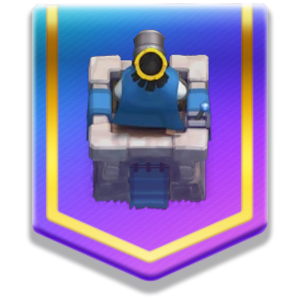
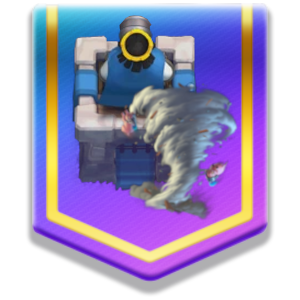
Clash Bingo

Changed region(s): [[0.24, 0.03, 0.81, 0.75]]

diff --git a/data.py b/data.py
@@ -35,6 +35,7 @@ MISC_DESCRIPTION = {
     'Perfection.png': "Win without troops reaching your towers.",
     'Prince_Special.png': "Have one Prince do 3 sprints.",
     'Princess_Special.png': "Have one Princess shoot 10 times.",
+    'Tornado_Special.png': "Have Tornado and activate your King Tower.",
     'Random.png': "Use your last oppenent's deck.",
     'Rocket_King_Tower.png': "Rocket the enemy King Tower within 20 seconds.",
     'Skeletons.png': "Use a deck with only skeleton cards.",
@@ -60,7 +61,7 @@ MODIFIERS_DESCRIPTION = {
     'elixir_5.png': "Use a deck of 5 or more elixir.",
     'Time.png': "Destroy a tower before x2 elixir.",
     'TowerActivation.png': "Activate enemy King Tower within 20 seconds.",
-    'TowerActivationSelf.png': "Activate your King Tower before losing towers.",
+    'TowerActivationSelf.png': "Have Tornado and activate your King Tower.",
     'FullTower.png': "Have one side-tower full HP.",
     '3Crowns.png': "Get three crowns.",
     'Evo.png': "One evolution allowed.",
@@ -90,6 +91,7 @@ INCOMPATIBLE_MODIFIERS = {
         'MightyMiner_Special.png': ['Champion.png'],
         'LittlePrince_Special.png': ['Champion.png'],
         'Golem.png': ['Sneaky.png'],
+        'Tornado_Special.png': ['TowerActivationSelf.png'],
     }
 
 TRIPLETS_LIST = [
